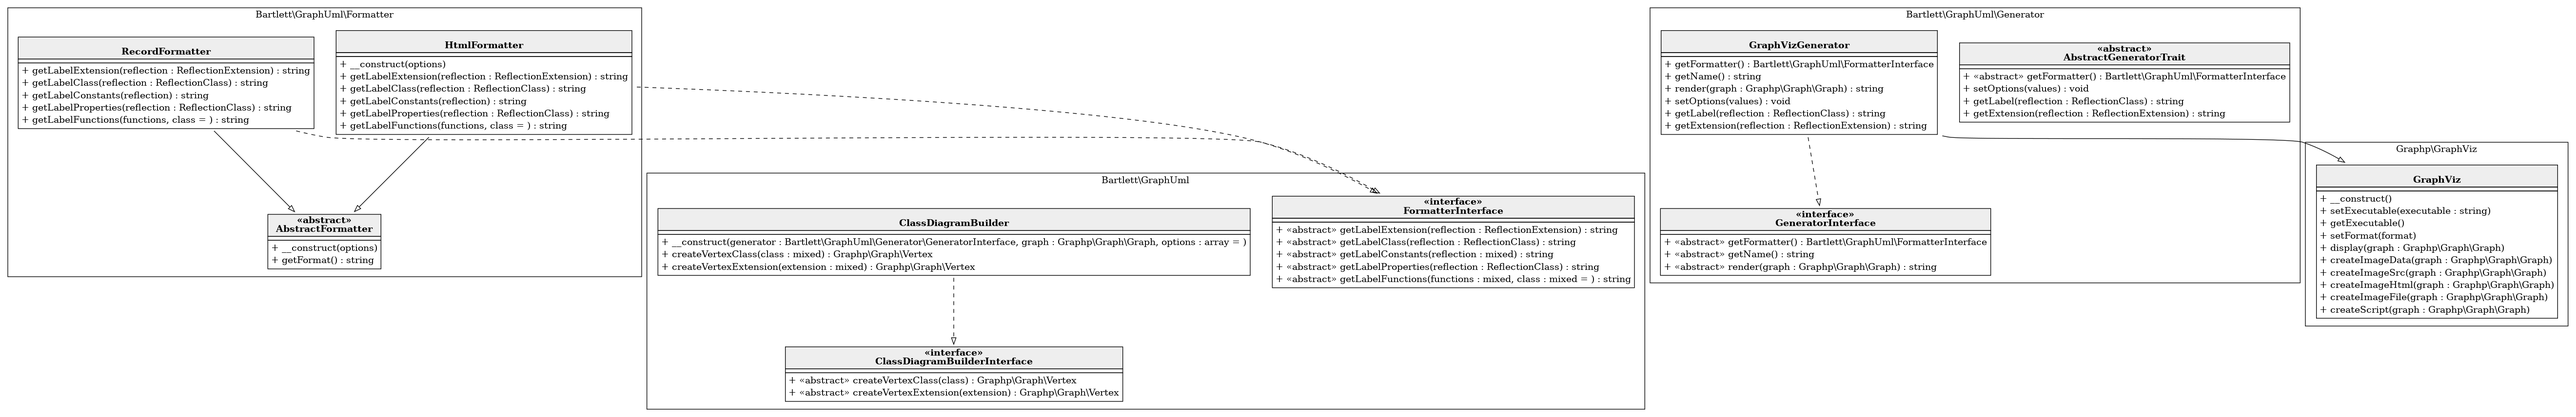
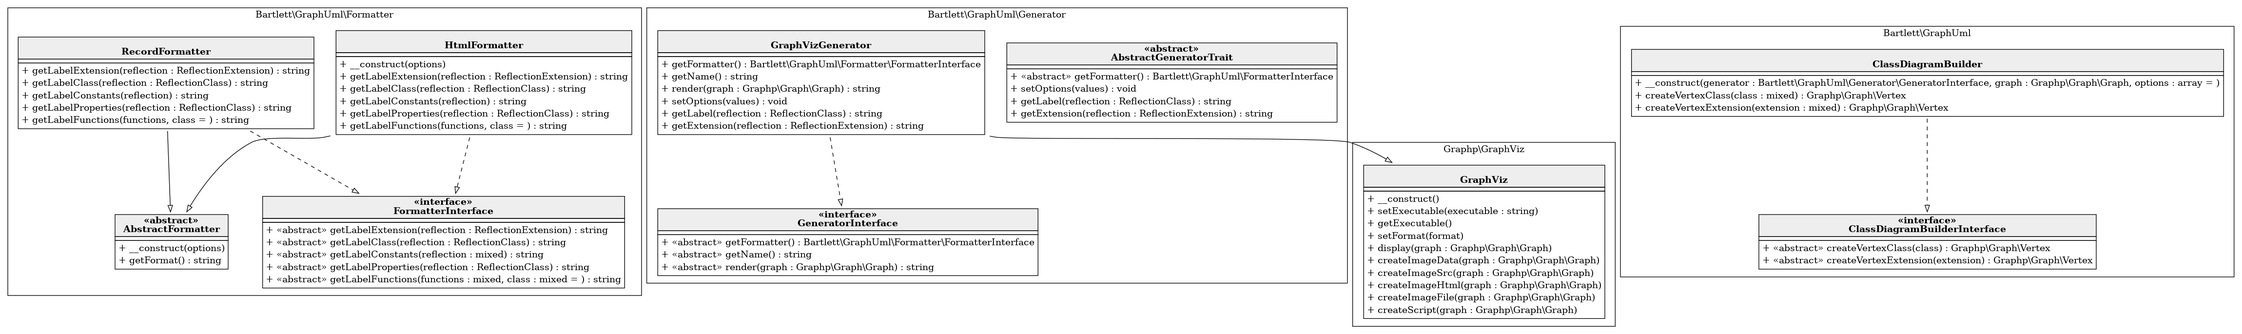
prepare next stable release 0.4.0

diff --git a/examples/graphuml-architecture/graphviz.php b/examples/graphuml-architecture/graphviz.php
@@ -13,13 +13,16 @@ $builder = new GraphUml\ClassDiagramBuilder(
     $graph,
     [
         'label-format' => 'html',
+        'show-constants' => false,
+        'show-private' => false,
+        'show-protected' => false
     ]
 );
 
 $builder->createVertexClass(GraphUml\Formatter\AbstractFormatter::class);
 $builder->createVertexClass(GraphUml\Formatter\HtmlFormatter::class);
 $builder->createVertexClass(GraphUml\Formatter\RecordFormatter::class);
-$builder->createVertexClass(GraphUml\FormatterInterface::class);
+$builder->createVertexClass(GraphUml\Formatter\FormatterInterface::class);
 $builder->createVertexClass(GraphUml\Generator\AbstractGeneratorTrait::class);
 $builder->createVertexClass(GraphUml\Generator\GeneratorInterface::class);
 $builder->createVertexClass(GraphUml\Generator\GraphVizGenerator::class);

diff --git a/src/Generator/GraphVizGenerator.php b/src/Generator/GraphVizGenerator.php
@@ -3,9 +3,9 @@ declare(strict_types=1);
 
 namespace Bartlett\GraphUml\Generator;
 
+use Bartlett\GraphUml\Formatter\FormatterInterface;
 use Bartlett\GraphUml\Formatter\HtmlFormatter;
 use Bartlett\GraphUml\Formatter\RecordFormatter;
-use Bartlett\GraphUml\FormatterInterface;
 
 use Graphp\Graph\Graph;
 use Graphp\GraphViz\GraphViz;

diff --git a/src/Generator/GeneratorInterface.php b/src/Generator/GeneratorInterface.php
@@ -4,7 +4,7 @@ declare(strict_types=1);
 
 namespace Bartlett\GraphUml\Generator;
 
-use Bartlett\GraphUml\FormatterInterface;
+use Bartlett\GraphUml\Formatter\FormatterInterface;
 
 use Graphp\Graph\Graph;
 

diff --git a/src/Formatter/HtmlFormatter.php b/src/Formatter/HtmlFormatter.php
@@ -4,8 +4,6 @@ declare(strict_types=1);
 
 namespace Bartlett\GraphUml\Formatter;
 
-use Bartlett\GraphUml\FormatterInterface;
-
 use Exception;
 use ReflectionClass;
 use ReflectionExtension;

diff --git a/src/Formatter/RecordFormatter.php b/src/Formatter/RecordFormatter.php
@@ -4,8 +4,6 @@ declare(strict_types=1);
 
 namespace Bartlett\GraphUml\Formatter;
 
-use Bartlett\GraphUml\FormatterInterface;
-
 use Exception;
 use ReflectionClass;
 use ReflectionExtension;

diff --git a/src/Formatter/FormatterInterface.php b/src/Formatter/FormatterInterface.php
@@ -2,7 +2,7 @@
 
 declare(strict_types=1);
 
-namespace Bartlett\GraphUml;
+namespace Bartlett\GraphUml\Formatter;
 
 use ReflectionClass;
 use ReflectionExtension;

diff --git a/CHANGELOG.md b/CHANGELOG.md
@@ -6,6 +6,11 @@ using the [Keep a CHANGELOG](http://keepachangelog.com) principles.
 
 ## [Unreleased]
 
+## [0.4.0] - 2020-04-26
+
+* introduces full documentation in markdown format (see `docs/` folder).
+* changed namespace of `FormatterInterface`.
+
 ## [0.3.0] - 2020-04-24
 
 * introduces first series of unit tests about `createVertexExtension`
@@ -17,7 +22,7 @@ using the [Keep a CHANGELOG](http://keepachangelog.com) principles.
 
 ## [0.1.0] - 2020-04-15
 
-preview release features include : 
+preview release features include :
 
 * build UML [Class diagram](https://en.wikipedia.org/wiki/Class_diagram)
 * two formatters are provided by default: `record`, and `html`

diff --git a/README.md b/README.md
@@ -13,7 +13,7 @@ The main features provided by this library are:
 
 ## Install
 
-The recommended way to install this library is [through composer](http://getcomposer.org). 
+The recommended way to install this library is [through composer](http://getcomposer.org).
 If you don't know yet what is composer, have a look [on introduction](http://getcomposer.org/doc/00-intro.md).
 
 ```bash
@@ -65,7 +65,7 @@ echo $generator->createImageFile($graph) . ' file generated' . PHP_EOL;
 
 ## Documentation
 
-
+Full documentation is written in MarkDown format, and HTML export is possible with [Daux.io](https://github.com/dauxio/daux.io)
 
 ## Credits
 
